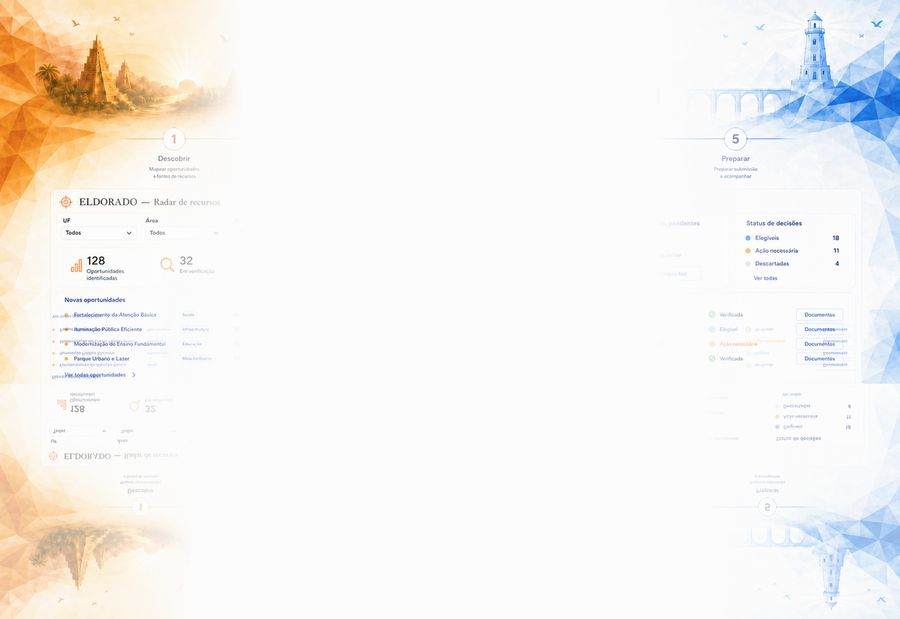
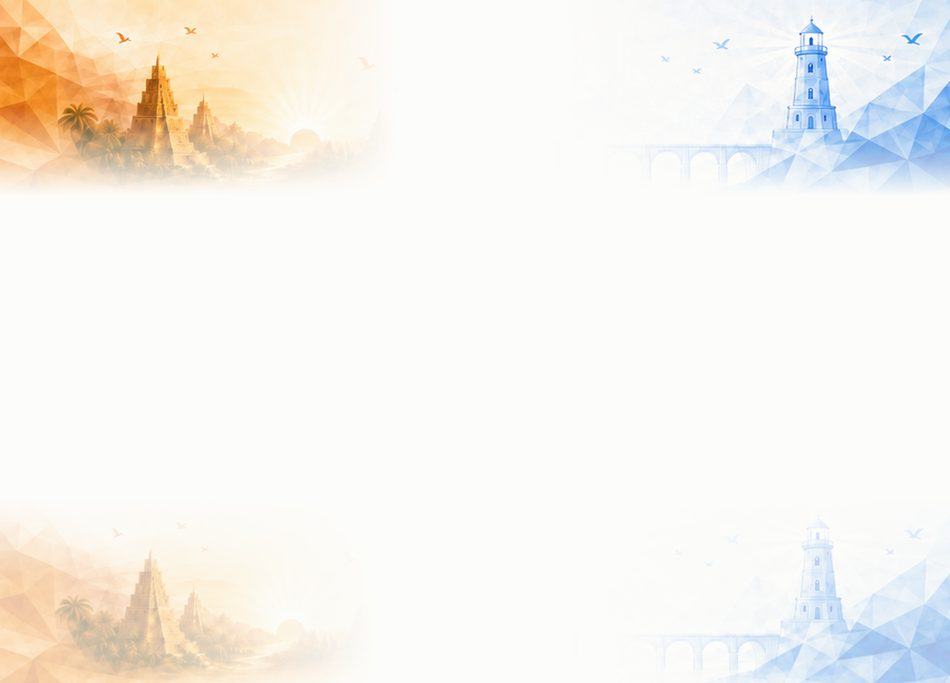
fix: fundo limpo, sem os elementos demonstrativos da arte
- fundo recomposto usando SOMENTE a faixa de cenario (cidade dourada, sol, passaros,
  farol, aqueduto, triangulos low-poly): cortado antes dos passos numerados
- removidos do fundo os paineis ficticios (128 oportunidades, status 18/11/4,
  filtros, listas de editais inventados) que vinham embutidos na arte
- bordas dissolvidas por gradiente de alfa: fundo continuo, sem cortes retos
- veu branco aliviado (o fundo ja e limpo) e arquivos menores (72 KB / 26 KB)
- teste permanente barra qualquer resíduo de texto na faixa central do fundo

diff --git a/docs/dashboard.html b/docs/dashboard.html
@@ -15,7 +15,7 @@ body{margin:0;background:var(--fundo);color:var(--tinta);font:14.5px/1.55 system
 body::before{content:"";position:fixed;inset:0;z-index:-2;
 background:url(arte/fundo.jpg) center/cover no-repeat}
 body::after{content:"";position:fixed;inset:0;z-index:-1;
-background:linear-gradient(180deg,rgba(255,255,255,.30) 0,rgba(252,252,250,.66) 26%,rgba(252,252,250,.72) 78%,rgba(255,255,255,.42) 100%)}
+background:linear-gradient(180deg,rgba(255,255,255,.18) 0,rgba(252,252,250,.52) 22%,rgba(252,252,250,.58) 80%,rgba(255,255,255,.30) 100%)}
 @media(max-width:900px){body::before{background-image:url(arte/fundo-leve.jpg)}}
 @media(max-resolution:1dppx) and (max-width:1200px){body::before{background-image:url(arte/fundo-leve.jpg)}}
 main{max-width:1140px;margin:auto;padding:18px 20px 40px}

diff --git a/tests/test_system.py b/tests/test_system.py
@@ -404,6 +404,23 @@ class SystemTests(unittest.TestCase):
         # fundo integral responsivo
         self.assertIn("center/cover", html)
 
+
+    def test_fundo_sem_elementos_demonstrativos(self):
+        """O fundo é só cenário: não pode carregar os painéis fictícios da arte
+        (números inventados, filtros, listas). Verificação por densidade de
+        traços finos escuros — assinatura de texto miúdo renderizado."""
+        from PIL import Image
+        for arq in ("docs/arte/fundo.jpg", "docs/arte/fundo-leve.jpg"):
+            im = Image.open(arq).convert("L")
+            larg, alt = im.size
+            # a faixa central (onde ficavam os painéis) tem de estar limpa
+            faixa = im.crop((int(larg*0.18), int(alt*0.22), int(larg*0.82), int(alt*0.92)))
+            escuros = sum(1 for p in faixa.getdata() if p < 120)
+            proporcao = escuros / (faixa.width * faixa.height)
+            self.assertLess(proporcao, 0.001,
+                            f"{arq}: faixa central tem tinta escura demais ({proporcao:.4%}) "
+                            "— provável resíduo dos elementos demonstrativos")
+
     def test_farol_resumo_e_valor(self):
         from src.dashboard_dados import valor_citado
         self.assertEqual(valor_citado("Valor: R$ 1.200.000,00"),"R$ 1.200.000,00")
